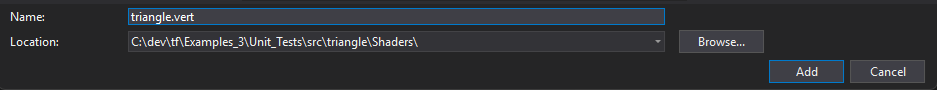
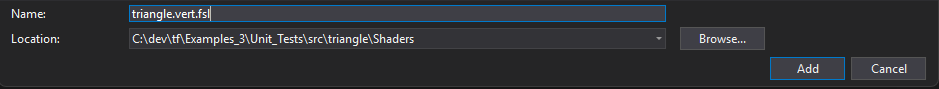
fix screenshot and change some wordings

diff --git a/_posts/2025-03-18-rendering-a-triangle-with-the-forge.md b/_posts/2025-03-18-rendering-a-triangle-with-the-forge.md
@@ -35,6 +35,7 @@ I used Wayback Machine to access the [Visual Studio download page from June 1st,
 ## Cloning and building The Forge
 
 Before we try to do anything with the framework, let's make sure we can actually run it. First clone the repository:
+
 ```shell
 git clone https://github.com/ConfettiFX/The-Forge.git
 ```
@@ -51,7 +52,7 @@ Now we're ready to create our triangle project.
 
 ## Creating a new project
 
-In Solution Explorer, create a new project by right clicking `Examples`, and select `Add->New Project`.
+In Solution Explorer, create a new project by right clicking `Examples`, and select `Add/New Project`.
 
 ![Create new project](04_new_project.png)
 
@@ -59,7 +60,7 @@ Select the `Empty Project` template, name the project `triangle` and put it in t
 
 ![New project](05_new_project_2.png)
 
-Now let's add a source file. Right click on `Source Files` and select `Add->New Item`.
+Now let's add a source file. Right click on `Source Files` and select `Add/New Item`.
 
 ![New source file](06_add_source.png)
 
@@ -118,11 +119,13 @@ DEFINE_APPLICATION_MAIN(Triangle)
 We'll need to configure our new project. Right click on the project and select `Properties`.
 
 In `Configuration Properties/General`, set `Output Directory` to:
+
 ```
 $(SolutionDir)$(Platform)\$(Configuration)\$(ProjectName)\
 ```
 
 And set  `Intermediate Directory` to:
+
 ```
 $(SolutionDir)\$(Platform)\$(Configuration)\Intermediate\$(ProjectName)\
 ```
@@ -136,11 +139,13 @@ In `Configuration Properties/Debugging`, set `Working Directory` to `$(OutDir)`
 ![Debugging](09_debugging.png)
 
 In `Configuration Properties/VC++ Directories`, set `Library Directories` to:
+
 ```
 $(SolutionDir)\$(Platform)\$(Configuration);$(LibraryPath)
 ```
 
 In `Configuration Properties/Linker/Input`, set `Additional Dependencies` to:
+
 ```
 Xinput9_1_0.lib;ws2_32.lib;Renderer.lib;OS.lib;%(AdditionalDependencies)
 ```
@@ -160,6 +165,7 @@ Now, this error will appear if we try to build:
 ![Agility SDK](13_agility.png)
 
 The examples define this in `Examples_3\Build_Props\VS\TF_Shared.props`.
+
 ```xml
 <PreprocessorDefinitions>
   D3D12_AGILITY_SDK=1;
@@ -168,7 +174,8 @@ The examples define this in `Examples_3\Build_Props\VS\TF_Shared.props`.
 </PreprocessorDefinitions>
 ```
 
-We're going to do the same. Open `triangle.vcxproj` and add these lines just before the last `</Project>` line. Adjust the path to `TF_Shared.props` if you need to.
+We're going to do the same. Edit `triangle.vcxproj` and add these lines just before the last `</Project>` line. Adjust the path to `TF_Shared.props` if you need to.
+
 ```xml
   <ImportGroup Label="PropertySheets">
     <Import Project="..\..\..\..\Examples_3\Build_Props\VS\TF_Shared.props" />
@@ -183,7 +190,7 @@ Now we can start writing the code for our triangle.
 
 ## Rendering a triangle
 
-The Forge uses FSL (Forge Shading Language). We first need to integrate FSL by right clicking the project, and choose `Build Dependencies/Build Customizations/Find Existing` and choose the `fsl.target` file.
+The Forge uses FSL (Forge Shading Language). We first need to integrate FSL by right clicking the project, select `Build Dependencies/Build Customizations` and choose the `fsl.target` file.
 
 Now we can start writing the shaders for our triangle. First create a new filter for our shaders and name it `FSLShaders`
 
@@ -193,11 +200,12 @@ Then right click on `FSLShaders` and select `Add/New Item`.
 
 ![Filter item](16_filter_item.png)
 
-Create a new directory `Shaders` under `Unit_Tests\src\triangle` and place your shaders there. I named mine `triangle.vert.fsl` and `triangle.frag.fsl`. Also add a new file `shaders.list` in the same directory.
+Create a new directory `Shaders` under `Unit_Tests\src\triangle` and place your shaders there, making sure it ends with `.fsl`. I named mine `triangle.vert.fsl` and `triangle.frag.fsl`. Also add a new file `shaders.list` in the same directory.
 
 ![Shader dir](17_shader_dir.png)
 
 Put the following code in `triangle.vert.fsl`. Refer to the [FSL Programming Guide](https://github.com/ConfettiFX/The-Forge/wiki/FSL-Programming-Guide) for more details.
+
 ```
 STRUCT(VSInput)
 {
@@ -221,6 +229,7 @@ VSOutput VS_MAIN(VSInput In)
 ```
 
 Put this in `triangle.frag.fsl`
+
 ```
 STRUCT(VSOutput)
 {
@@ -239,6 +248,7 @@ float4 PS_MAIN(VSOutput In)
 ```
 
 And put this in `shaders.list`. Adjust the include path if needed.
+
 ```
 #include "../../../../../Common_3/Graphics/FSL/defaults.h"
 
@@ -257,11 +267,15 @@ And put this in `shaders.list`. Adjust the include path if needed.
 #end
 ```
 
-Right click on the project and select `Properties`. In `Configuration Properties/FSLShader`, set `Language` to `DIRECT3D12`, `OutDir` to `$(OutDir)Shaders`, set `BinaryOutDir` to `$(OutDir)CompiledShaders`, and set `Compile shader after generation` to `Yes`.
+Right click on the project and select `Properties`. In `Configuration Properties/FSLShader`:
+- set `Language` to `DIRECT3D12`
+- set `OutDir` to `$(OutDir)Shaders`
+- set `BinaryOutDir` to `$(OutDir)CompiledShaders`
+- set `Compile shader after generation` to `Yes`
 
 ![Shader properties](18_shader_props.png)
 
-And put this in `triangle.cpp`. If you've used Vulkan then this should look pretty familiar.
+Now put this in `triangle.cpp`. If you've used Vulkan then this should look pretty familiar.
 
 ```cpp
 // Interfaces
